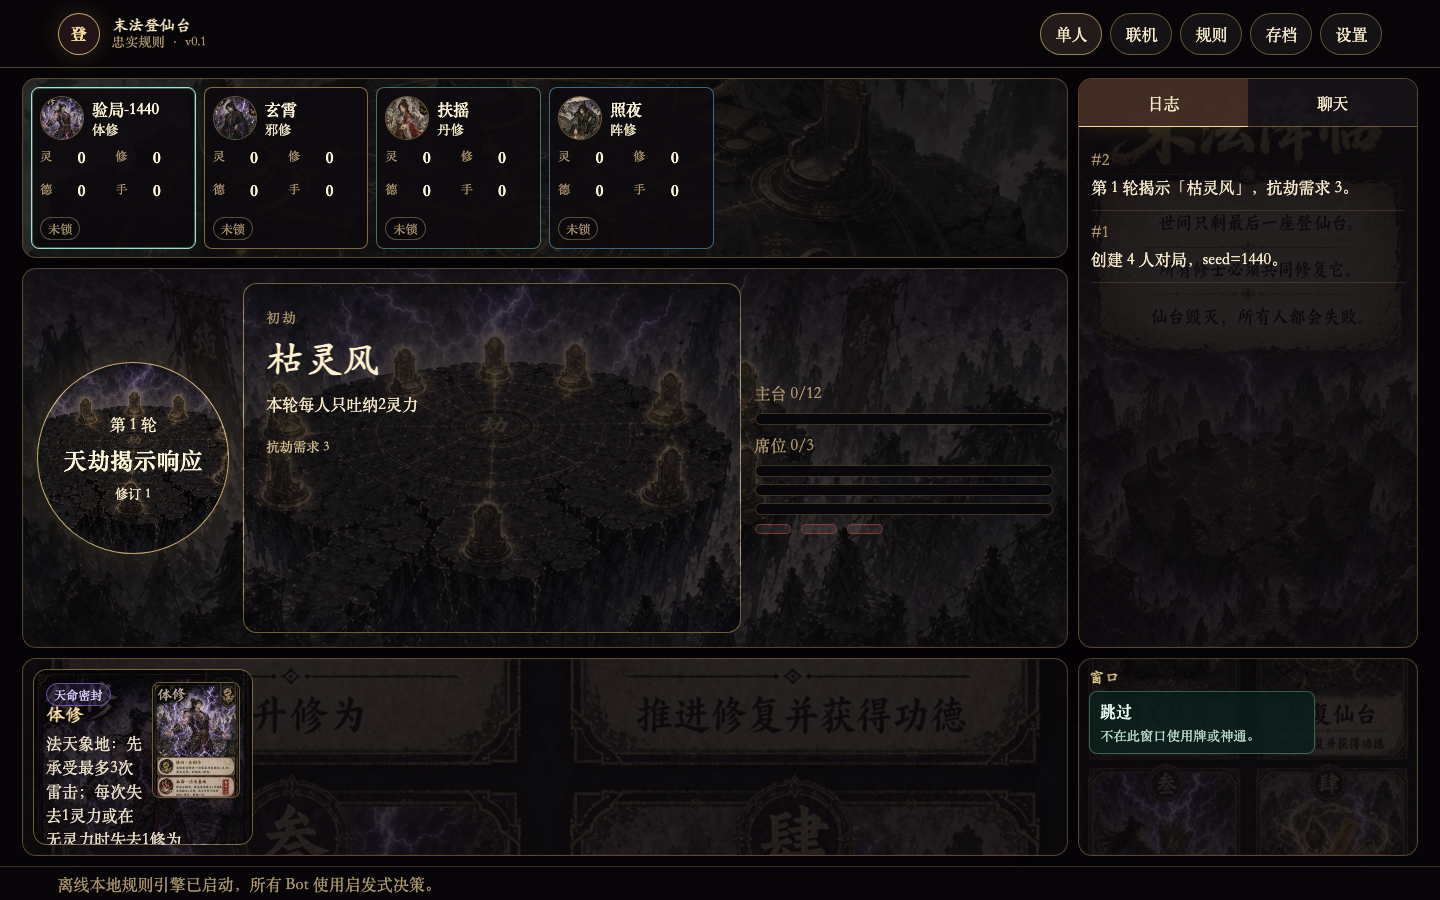
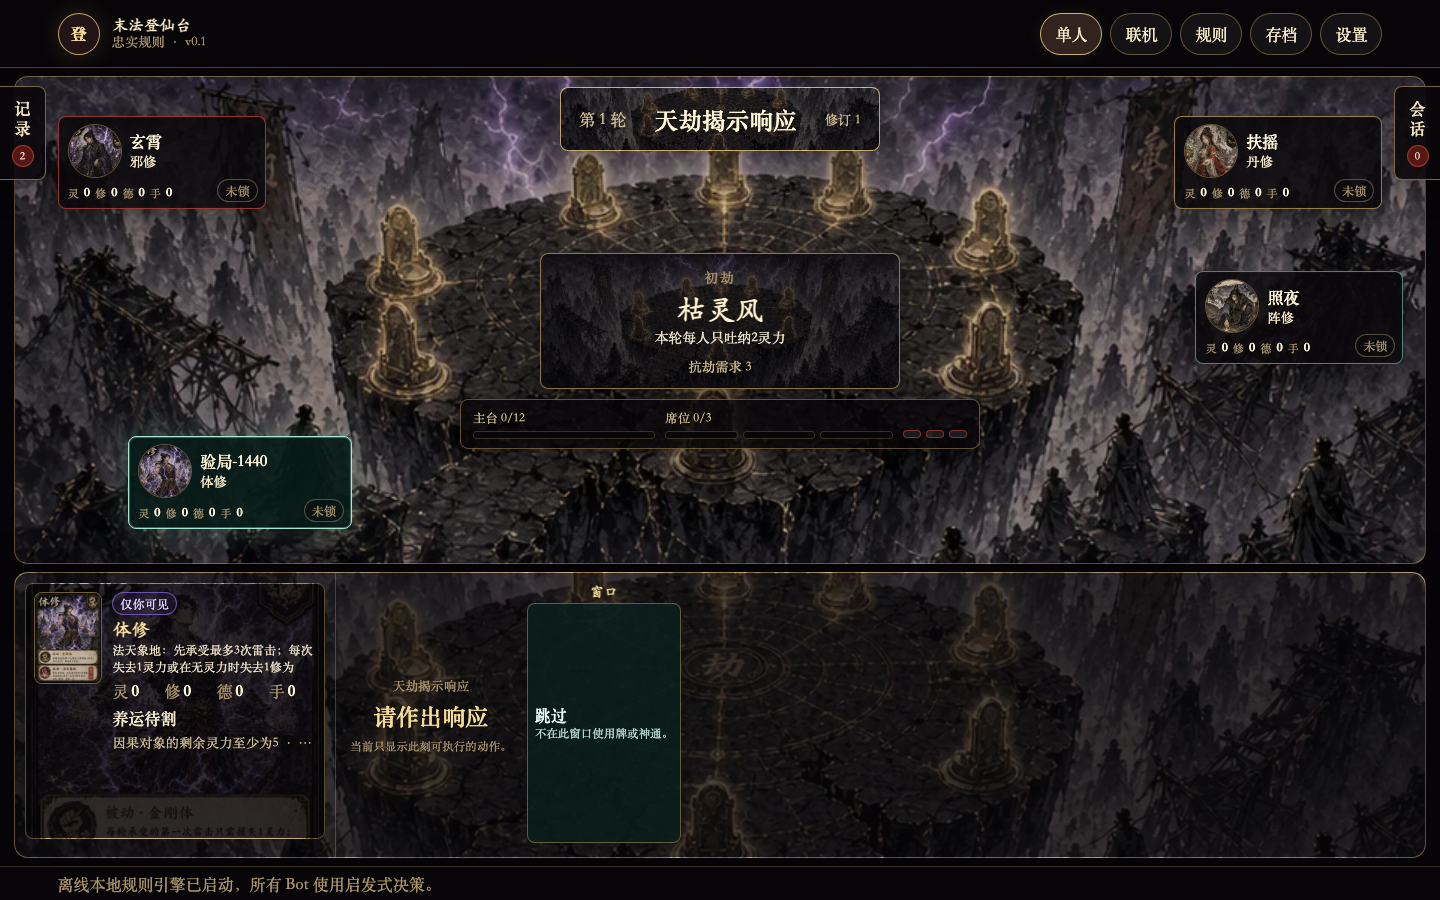
Keep release verification isolated from active development
Constraint: npm run verify must remain runnable while the Safari development server is active on ports 5173 and 8787.
Rejected: Reuse the 8787 health endpoint | The development API process does not serve the production client required by browser tests.
Confidence: high
Scope-risk: narrow
Directive: Keep Playwright on E2E_PORT and drive two-step secret plans through the shared action helper.
Tested: npm run verify; 36/36 Vitest; 120/120 simulations; 15/15 Chromium E2E; production build.
Not-tested: Docker image build because the local Docker daemon remains unavailable.

diff --git a/playwright.config.ts b/playwright.config.ts
@@ -1,5 +1,9 @@
 import { defineConfig, devices } from '@playwright/test';
 
+const e2ePort = process.env.E2E_PORT ?? '8797';
+if (!/^\d+$/.test(e2ePort)) throw new Error('E2E_PORT must be a numeric TCP port');
+const e2eBaseUrl = `http://127.0.0.1:${e2ePort}`;
+
 export default defineConfig({
   testDir: './tests/e2e',
   timeout: 60_000,
@@ -7,7 +11,7 @@ export default defineConfig({
   workers: 1,
   reporter: [['list'], ['html', { outputFolder: 'playwright-report', open: 'never' }]],
   use: {
-    baseURL: 'http://127.0.0.1:8787',
+    baseURL: e2eBaseUrl,
     trace: 'retain-on-failure',
     screenshot: 'only-on-failure',
   },
@@ -15,9 +19,9 @@ export default defineConfig({
     { name: 'chromium', use: { ...devices['Desktop Chrome'] } },
   ],
   webServer: {
-    command: 'npm run build && npm start',
-    url: 'http://127.0.0.1:8787/api/health',
-    reuseExistingServer: false,
+    command: `npm run build && PORT=${e2ePort} PUBLIC_ORIGIN=${e2eBaseUrl} npm start`,
+    url: `${e2eBaseUrl}/api/health`,
+    reuseExistingServer: !process.env.CI,
     timeout: 30_000,
   },
 });

diff --git a/tests/e2e/game-flows.spec.ts b/tests/e2e/game-flows.spec.ts
@@ -63,12 +63,10 @@ async function advanceUntilRoundTwo(page: Page): Promise<void> {
 async function advanceToOutcome(page: Page): Promise<void> {
   for (let step = 0; step < 600; step += 1) {
     if (page.url().endsWith('/outcome')) return;
-    const button = page.getByLabel('合法动作').getByRole('button').first();
-    if ((await button.count()) === 0) {
+    const acted = await clickPreferredAction(page);
+    if (!acted) {
       await page.waitForTimeout(20);
-      continue;
     }
-    await button.click();
   }
   await expect(page).toHaveURL(/\/outcome$/);
 }

diff --git a/docs/TEST_REPORT.md b/docs/TEST_REPORT.md
@@ -13,7 +13,7 @@
 | `npm run sim` | Pass | 120/120 合法终局；4/5/6 人各 40 局 |
 | `npm run build` | Pass | Vite client + `dist/server/index.js` + replay verifier |
 | `npm start` smoke | Pass | `/api/health` 与生产首页均返回 200 |
-| `npm run test:e2e` | Pass | Chromium 14/14 |
+| `npm run test:e2e` | Pass | Chromium 15/15；独立生产测试端口 8797 |
 | `npm run verify` | Pass | 上述门按发布顺序全绿 |
 | `docker compose config --quiet` | Pass | `.env.example` 临时复制后配置可解析 |
 | `docker build` | Not run | Docker CLI 可用但本机 daemon 未启动 |
@@ -31,10 +31,11 @@ Playwright 覆盖：
 5. 本地单人开局并推进至少一整轮。
 6. 一局完整本地 Bot 对局并显示合法终局结算。
 7. 最近单人局续玩。
-8. 命名存档、导出、删除、导入、覆盖与载入。
-9. 两个独立浏览器上下文创建/加入同一房间，加入两个 Bot，双方准备、开局并推进一整轮；访客刷新后凭会话令牌回到原座位。
-10. 教程与未结局状态下的结局路由。
-11. 1024×768、1280×720、1440×900、1920×1080 四档截图。
+8. 对局记录与公开会话使用可关闭的两侧抽屉，关闭后不会继续遮挡桌面。
+9. 命名存档、导出、删除、导入、覆盖与载入。
+10. 两个独立浏览器上下文创建/加入同一房间，加入两个 Bot，双方准备、开局并推进一整轮；访客刷新后凭会话令牌回到原座位。
+11. 教程与未结局状态下的结局路由。
+12. 1024×768、1280×720、1440×900、1920×1080 四档截图。
 
 截图位于 `docs/screenshots/`。常规 release 截图为 `menu-1024x768.png`、`tutorial-1280x720.png`、`table-1440x900.png`、`saves-1920x1080.png`；本轮额外保留 `art-v2-*.png` 作为美术优化目检证据。视觉复核确认页面非空、正文可读、主导航与核心动作可见，且人物头像、行动卡、规则图和中央仙台背景均已加载。
 

diff --git a/README.md b/README.md
@@ -91,7 +91,7 @@ docker compose up --build
 npm run verify
 ```
 
-该命令依次执行上游同步、依赖审计、类型检查、lint、36 项 Vitest、120 局 4/5/6 人模拟、生产构建和 14 项 Playwright E2E。也可单独运行：
+该命令依次执行上游同步、依赖审计、类型检查、lint、36 项 Vitest、120 局 4/5/6 人模拟、生产构建和 15 项 Playwright E2E。Playwright 默认在独立的 `8797` 端口启动生产服务，避免与 `npm run dev` 使用的 `8787` API 服务冲突；可通过 `E2E_PORT` 覆盖。也可单独运行：
 
 ```bash
 npm run typecheck
